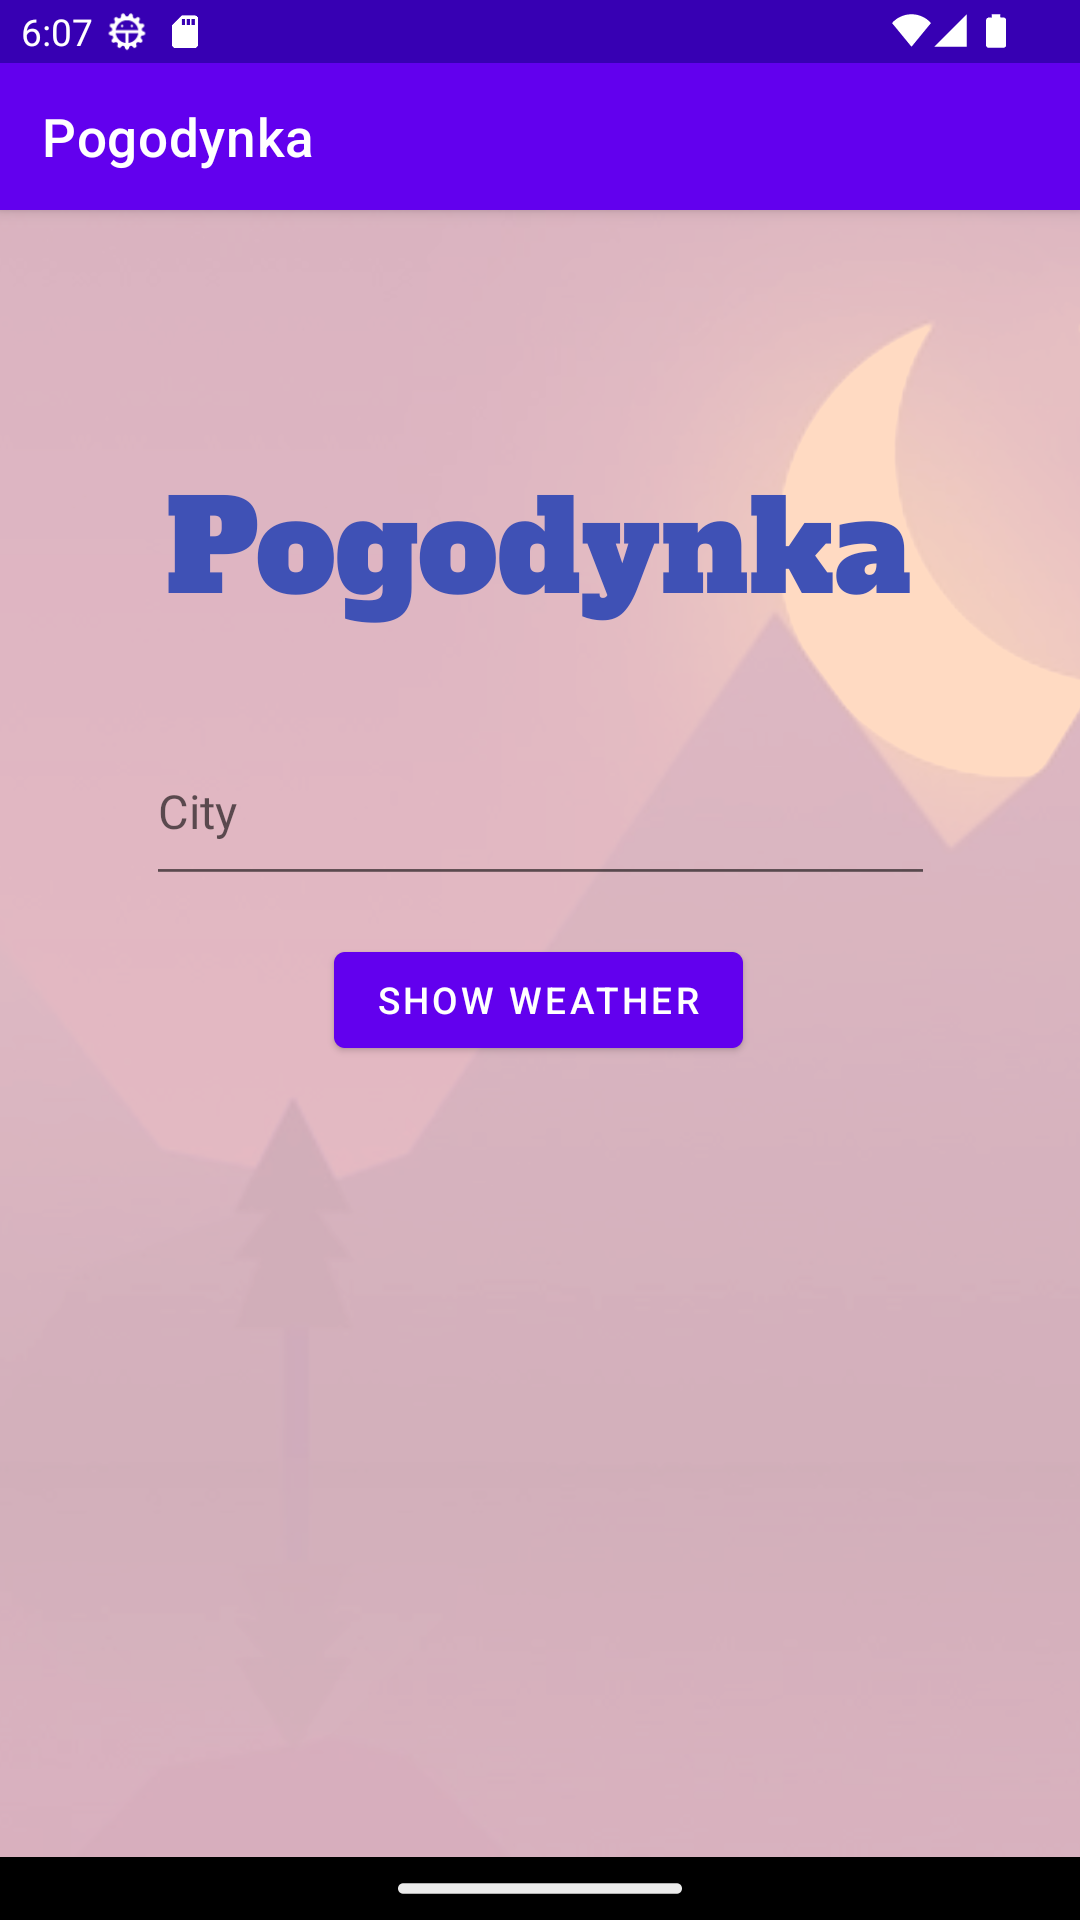
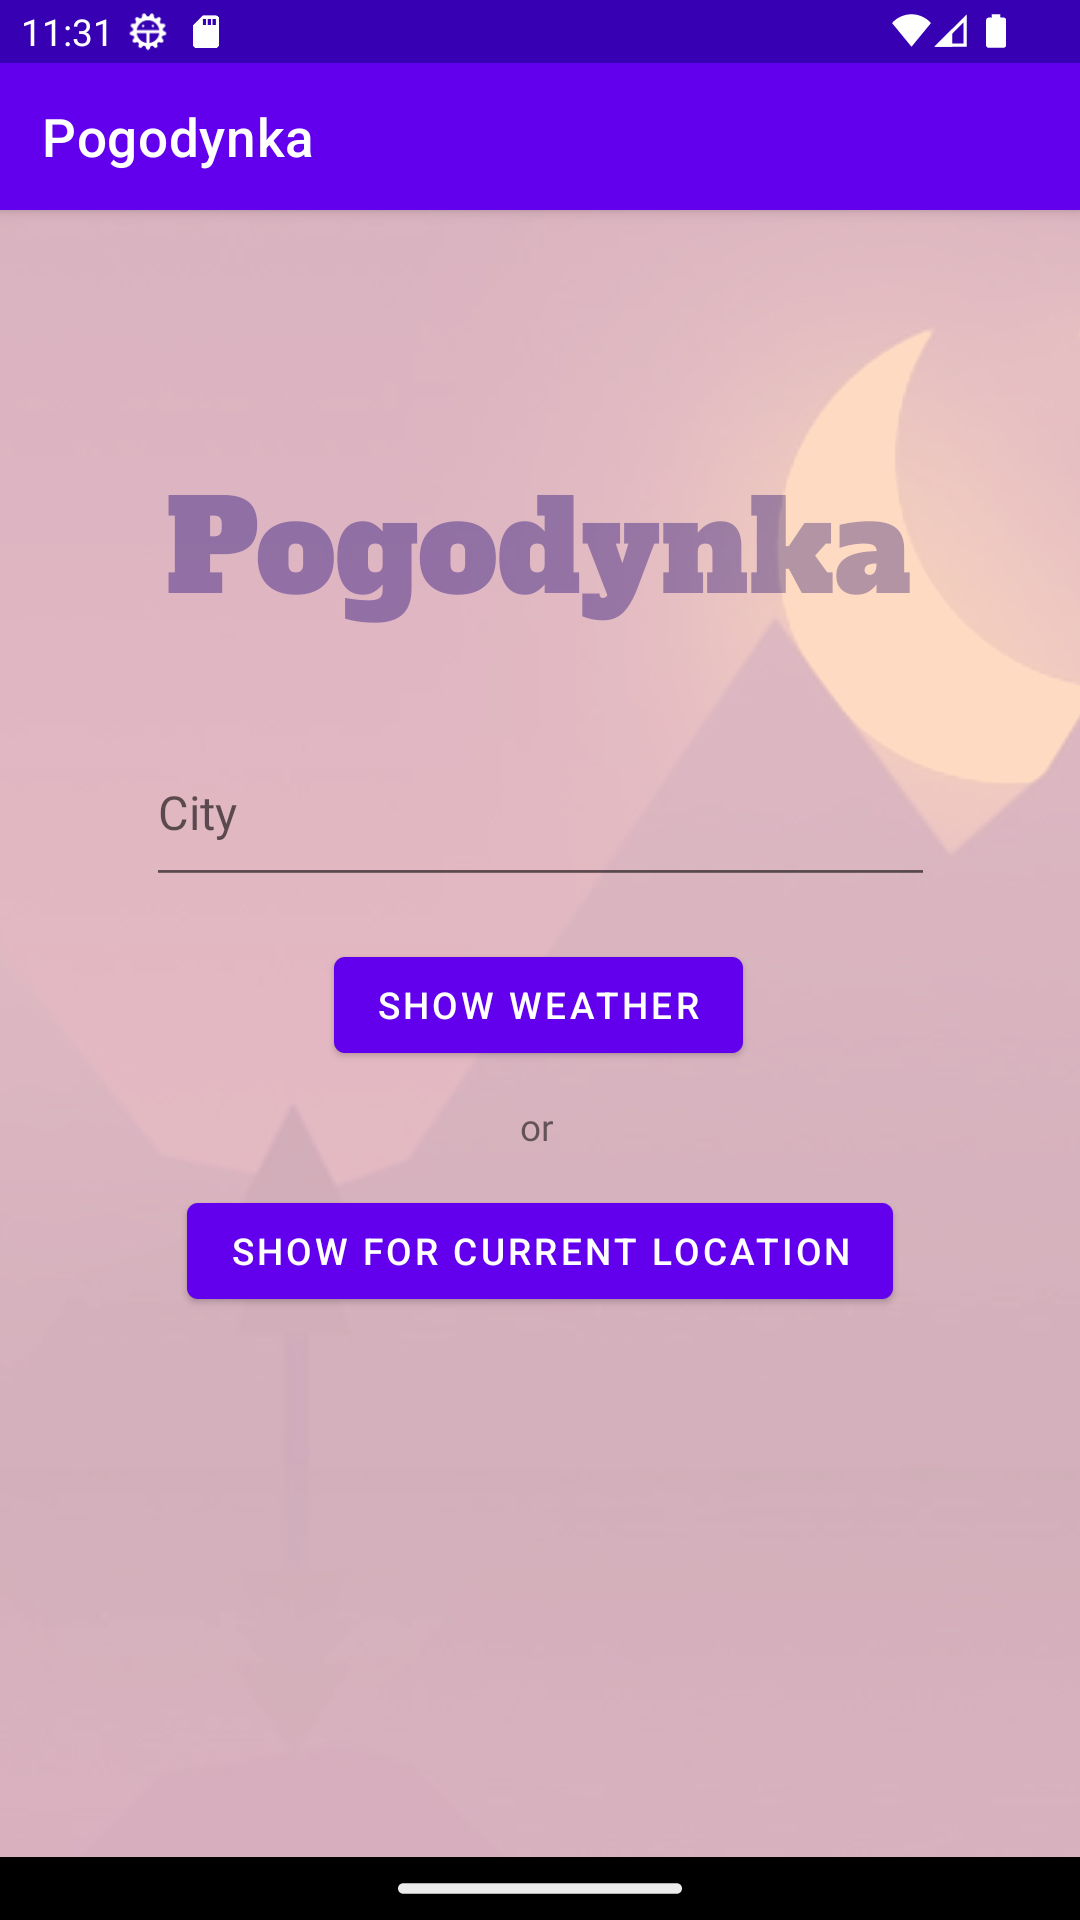
Weather by current Location

diff --git a/app/src/main/java/com/example/pogodynka/Start.java b/app/src/main/java/com/example/pogodynka/Start.java
@@ -5,6 +5,7 @@ import androidx.appcompat.app.AppCompatActivity;
 import androidx.core.app.ActivityCompat;
 
 import android.Manifest;
+import android.content.Context;
 import android.content.pm.PackageManager;
 import android.graphics.Color;
 import android.os.Bundle;
@@ -19,7 +20,6 @@ import android.widget.Toast;
 import com.android.volley.Request;
 import com.android.volley.RequestQueue;
 import com.android.volley.Response;
-import com.android.volley.VolleyError;
 import com.android.volley.toolbox.StringRequest;
 import com.android.volley.toolbox.Volley;
 
@@ -31,10 +31,20 @@ import org.json.JSONObject;
 import java.time.LocalDateTime;
 import java.time.format.DateTimeFormatter;
 
+import android.location.Location;
+import android.location.LocationListener;
+import android.location.LocationManager;
+
 public class Start extends AppCompatActivity {
     EditText city;
     TextView textView;
 
+    LocationManager locationManager;
+    LocationListener locationListener;
+
+    String url ="";
+
+    String error_message="";
 
     @Override
     protected void onCreate(Bundle savedInstanceState) {
@@ -42,6 +52,9 @@ public class Start extends AppCompatActivity {
         setContentView(R.layout.activity_start);
         city = findViewById(R.id.cityEditText);
         textView = findViewById(R.id.textView);
+        if (ActivityCompat.checkSelfPermission(this, Manifest.permission.INTERNET) != PackageManager.PERMISSION_GRANTED ) {
+            ActivityCompat.requestPermissions(this, new String[]{Manifest.permission.INTERNET},1);
+        }
 
     }
 
@@ -61,7 +74,62 @@ public class Start extends AppCompatActivity {
                 return;
             }
         }
+        if (grantResults.length > 0 && grantResults[0] == PackageManager.PERMISSION_GRANTED) {
+            if (ActivityCompat.checkSelfPermission(this, Manifest.permission.ACCESS_FINE_LOCATION) != PackageManager.PERMISSION_GRANTED && ActivityCompat.checkSelfPermission(this, Manifest.permission.ACCESS_COARSE_LOCATION) != PackageManager.PERMISSION_GRANTED) {
+                // TODO: Consider calling
+                //    ActivityCompat#requestPermissions
+                // here to request the missing permissions, and then overriding
+                //   public void onRequestPermissionsResult(int requestCode, String[] permissions,
+                //                                          int[] grantResults)
+                // to handle the case where the user grants the permission. See the documentation
+                // for ActivityCompat#requestPermissions for more details.
+                return;
+            }
+            locationManager.requestLocationUpdates(LocationManager.GPS_PROVIDER, 0, 0, locationListener);
+        }
     }
+
+    public void getLocation(View view){
+        locationManager = (LocationManager) this.getSystemService(Context.LOCATION_SERVICE);
+        locationListener = new LocationListener() {
+            @Override
+            public void onLocationChanged(@NonNull Location location) {
+                String Latitude = String.valueOf(location.getLatitude());
+                String Longitude = String.valueOf(location.getLongitude());
+                url = "https://api.openweathermap.org/data/2.5/weather?lat="+ Latitude +"&lon=" + Longitude + "&appid=7f251d1a9dd64823fe3f78a3b0f94249&units=metric";
+                showWeather(view);
+                stopOnClick();
+            }
+
+            public void stopOnClick(){
+                locationManager.removeUpdates(this);
+            }
+
+        };
+
+        error_message="Couldn't get location";
+
+        if (ActivityCompat.checkSelfPermission(this, Manifest.permission.ACCESS_FINE_LOCATION) != PackageManager.PERMISSION_GRANTED && ActivityCompat.checkSelfPermission(this, Manifest.permission.ACCESS_COARSE_LOCATION) != PackageManager.PERMISSION_GRANTED) {
+            ActivityCompat.requestPermissions(this, new String[]{Manifest.permission.ACCESS_FINE_LOCATION, Manifest.permission.ACCESS_COARSE_LOCATION},1);
+        }
+        else{
+            locationManager.requestLocationUpdates(LocationManager.GPS_PROVIDER, 0, 0, locationListener);
+        }
+    }
+
+    public void getCity(View view) {
+        city = findViewById(R.id.cityEditText);
+        textView = findViewById(R.id.textView);
+        error_message="City name not recognised";
+        if (city.getText().toString().equals("")) {
+            city.setHint("Please enter City name!!");
+            city.setBackgroundColor(Color.parseColor("#c77c71"));
+        } else {
+            url = "https://api.openweathermap.org/data/2.5/weather?q=" + city.getText().toString().trim() + "&appid=7f251d1a9dd64823fe3f78a3b0f94249&units=metric";
+            showWeather(view);
+        }
+    }
+
 
     public void goBack(View view){
         setContentView(R.layout.activity_start);
@@ -72,124 +140,113 @@ public class Start extends AppCompatActivity {
 
     public void showWeather(View view){
 
-        String url ="";
+        StringRequest stringRequest = new StringRequest(Request.Method.POST, url, new Response.Listener<String>() {
 
-        if (ActivityCompat.checkSelfPermission(this, Manifest.permission.INTERNET) != PackageManager.PERMISSION_GRANTED ) {
-            ActivityCompat.requestPermissions(this, new String[]{Manifest.permission.INTERNET},1);
-        }
-        else{
-            city = findViewById(R.id.cityEditText);
-            textView = findViewById(R.id.textView);
-            if (city.getText().toString().equals("")){
-                city.setHint("Please enter City name!!");
-                city.setBackgroundColor(Color.parseColor("#c77c71"));
-            }else {
-                url = "https://api.openweathermap.org/data/2.5/weather?q=" + city.getText().toString().trim() + "&appid=7f251d1a9dd64823fe3f78a3b0f94249&units=metric";
+            @Override
+            public void onResponse(String response) {
+                JSONObject jsonObject = null;
+                DateTimeFormatter formatter = DateTimeFormatter.ofPattern("dd MMM HH:mm");
 
-                StringRequest stringRequest = new StringRequest(Request.Method.POST, url, new Response.Listener<String>() {
+                try {
+                    jsonObject = new JSONObject(response);
+                    String city = jsonObject.getString("name");
+                    JSONArray array = jsonObject.getJSONArray("weather");
+                    JSONObject weather = array.getJSONObject(0);
+                    String description = weather.getString("description");
+                    int id = weather.getInt("id");
 
-                    @Override
-                    public void onResponse(String response) {
-                        JSONObject jsonObject = null;
-                        DateTimeFormatter formatter = DateTimeFormatter.ofPattern("dd MMM HH:mm");
+                    JSONObject main  = jsonObject.getJSONObject("main");
+                    double temp = Math.round(main.getDouble("temp")*10)/10;
+                    double temp1 = Math.round(main.getDouble("feels_like")*10)/10;
+                    double maxtemp = Math.round(main.getDouble("temp_max")*10)/10;
+                    double mintemp = Math.round(main.getDouble("temp_min")*10)/10;
 
-                        try {
-                            jsonObject = new JSONObject(response);
-                            JSONArray array = jsonObject.getJSONArray("weather");
-                            JSONObject weather = array.getJSONObject(0);
-                            String description = weather.getString("description");
-                            int id = weather.getInt("id");
-
-                            JSONObject main  = jsonObject.getJSONObject("main");
-                            double temp = Math.round(main.getDouble("temp")*10)/10;
-                            double temp1 = Math.round(main.getDouble("feels_like")*10)/10;
-                            double maxtemp = Math.round(main.getDouble("temp_max")*10)/10;
-                            double mintemp = Math.round(main.getDouble("temp_min")*10)/10;
-
-                            JSONObject wind  = jsonObject.getJSONObject("wind");
-                            double speed = Math.round(wind.getDouble("speed")*10)/10;
-                            double deg = wind.getDouble("deg");
-                            String direction = Direction(deg);
+                    JSONObject wind  = jsonObject.getJSONObject("wind");
+                    double speed = Math.round(wind.getDouble("speed")*10)/10;
+                    double deg = wind.getDouble("deg");
+                    String direction = Direction(deg);
 
 
 
-                            JSONObject sys = jsonObject.getJSONObject("sys");
-                            int sunrise = sys.getInt("sunrise") + jsonObject.getInt("timezone");
-                            int sunset = sys.getInt("sunset") + jsonObject.getInt("timezone");
-                            int time = jsonObject.getInt("dt") + jsonObject.getInt("timezone");
+                    JSONObject sys = jsonObject.getJSONObject("sys");
+                    int sunrise = sys.getInt("sunrise") + jsonObject.getInt("timezone");
+                    int sunset = sys.getInt("sunset") + jsonObject.getInt("timezone");
+                    int time = jsonObject.getInt("dt") + jsonObject.getInt("timezone");
 
 
-                            java.util.Date timeDate =new java.util.Date((long)time*1000);
-                            String sTime = LocalDateTime.parse(timeDate.toString(), DateTimeFormatter.ofPattern("EEE MMM dd HH:mm:ss z yyy")).format(formatter);
+                    java.util.Date timeDate =new java.util.Date((long)time*1000);
+                    String sTime = LocalDateTime.parse(timeDate.toString(), DateTimeFormatter.ofPattern("EEE MMM dd HH:mm:ss z yyy")).format(formatter);
 
 
 
-                            wID = id;
+                    wID = id;
 
-                            setContentView(R.layout.activity_weather);
+                    setContentView(R.layout.activity_weather);
 
-                            TextView tempView = findViewById(R.id.tempView);
-                            tempView.setText(temp +"\u2103");
-                            TextView descriptionView = findViewById(R.id.DescriptionView);
-                            descriptionView.setText(description);
-                            TextView cityView = findViewById(R.id.cityView);
-                            cityView.setText(city.getText().toString());
-                            ImageView imageView = findViewById(R.id.imageView4);
-                            imageView.setImageResource(setIconRes(wID));
+                    TextView tempView = findViewById(R.id.tempView);
+                    tempView.setText(temp +"\u2103");
+                    TextView descriptionView = findViewById(R.id.DescriptionView);
+                    descriptionView.setText(description);
+                    TextView cityView = findViewById(R.id.cityView);
+                    cityView.setText(city);
+                    ImageView imageView = findViewById(R.id.imageView4);
+                    imageView.setImageResource(setIconRes(wID));
 
-                            TextView dateView1 = findViewById(R.id.date2);
-                            dateView1.setText(sTime);
-                            TextView tempView1 = findViewById(R.id.temp);
-                            tempView1.setText("feels like: "+temp1 +"\u2103");
-                            TextView tempView2 = findViewById(R.id.max);
-                            tempView2.setText("max: "+ maxtemp +"\u2103");
-                            TextView tempView3 = findViewById(R.id.min);
-                            tempView3.setText("min: "+ mintemp +"\u2103");
-                            TextView windView = findViewById(R.id.wind);
-                            windView.setText(speed+" m/s\n"+deg+"\u00B0 ("+direction+")");
+                    TextView dateView1 = findViewById(R.id.date2);
+                    dateView1.setText(sTime);
+                    TextView tempView1 = findViewById(R.id.temp);
+                    tempView1.setText("feels like: "+temp1 +"\u2103");
+                    TextView tempView2 = findViewById(R.id.max);
+                    tempView2.setText("max: "+ maxtemp +"\u2103");
+                    TextView tempView3 = findViewById(R.id.min);
+                    tempView3.setText("min: "+ mintemp +"\u2103");
+                    TextView windView = findViewById(R.id.wind);
+                    windView.setText(speed+" m/s\n"+deg+"\u00B0 ("+direction+")");
 
-                            if (jsonObject.has("rain")) {
-                                JSONObject rain = jsonObject.getJSONObject("rain");
-                                if (rain.has("1h")) {
-                                    double h1 = rain.getDouble("1h");
-                                    TextView rainView = findViewById(R.id.rainView);
-                                    rainView.setText(h1 + " mm");
-                                }
-                            }
-
-
-                            if(time<sunrise || time>sunset){
-                                ImageView background = findViewById(R.id.imageView);
-                                background.setImageResource(R.drawable.night);
-                                dateView1.setTextColor(Color.parseColor("#5802E3"));
-                            }
-
-                        } catch (JSONException e) {
-                            e.printStackTrace();
-                            textView.setText("Didn't Work");
+                    if (jsonObject.has("rain")) {
+                        JSONObject rain = jsonObject.getJSONObject("rain");
+                        if (rain.has("1h")) {
+                            double h1 = rain.getDouble("1h");
+                            TextView rainView = findViewById(R.id.rainView);
+                            rainView.setText(h1 + " mm");
                         }
-
-
                     }
-                }, error -> {
-                    if (error.toString().trim().equals("com.android.volley.ClientError")){
-                            city.setText("");
-                            city.setHint("Please enter City name!!");
-                            city.setBackgroundColor(Color.parseColor("#c77c71"));
-                        Toast.makeText(getApplicationContext(), "City name not recognised", Toast.LENGTH_SHORT).show();
-                    }else {
-                        Toast.makeText(getApplicationContext(), error.toString().trim(), Toast.LENGTH_SHORT).show();
+
+
+                    if(time<sunrise || time>sunset){
+                        ImageView background = findViewById(R.id.imageView);
+                        background.setImageResource(R.drawable.night);
+                        dateView1.setTextColor(Color.parseColor("#5802E3"));
                     }
-                });
 
-
-
-                RequestQueue requestQueue = Volley.newRequestQueue(getApplicationContext());
-                requestQueue.add(stringRequest);
+                } catch (JSONException e) {
+                    e.printStackTrace();
+                    textView.setText("Didn't Work");
+                }
 
 
             }
-        }
+        }, error -> {
+            if (error.toString().trim().equals("com.android.volley.ClientError")){
+                if (error_message=="City name not recognised") {
+                    city.setText("");
+                    city.setHint("Please enter City name!!");
+                    city.setBackgroundColor(Color.parseColor("#c77c71"));
+                }
+                Toast.makeText(getApplicationContext(), error_message, Toast.LENGTH_SHORT).show();
+            }else {
+                Toast.makeText(getApplicationContext(), error.toString().trim(), Toast.LENGTH_SHORT).show();
+            }
+        });
+
+
+
+        RequestQueue requestQueue = Volley.newRequestQueue(getApplicationContext());
+        requestQueue.add(stringRequest);
+
+
+
+
     }
 
     private int wID;
